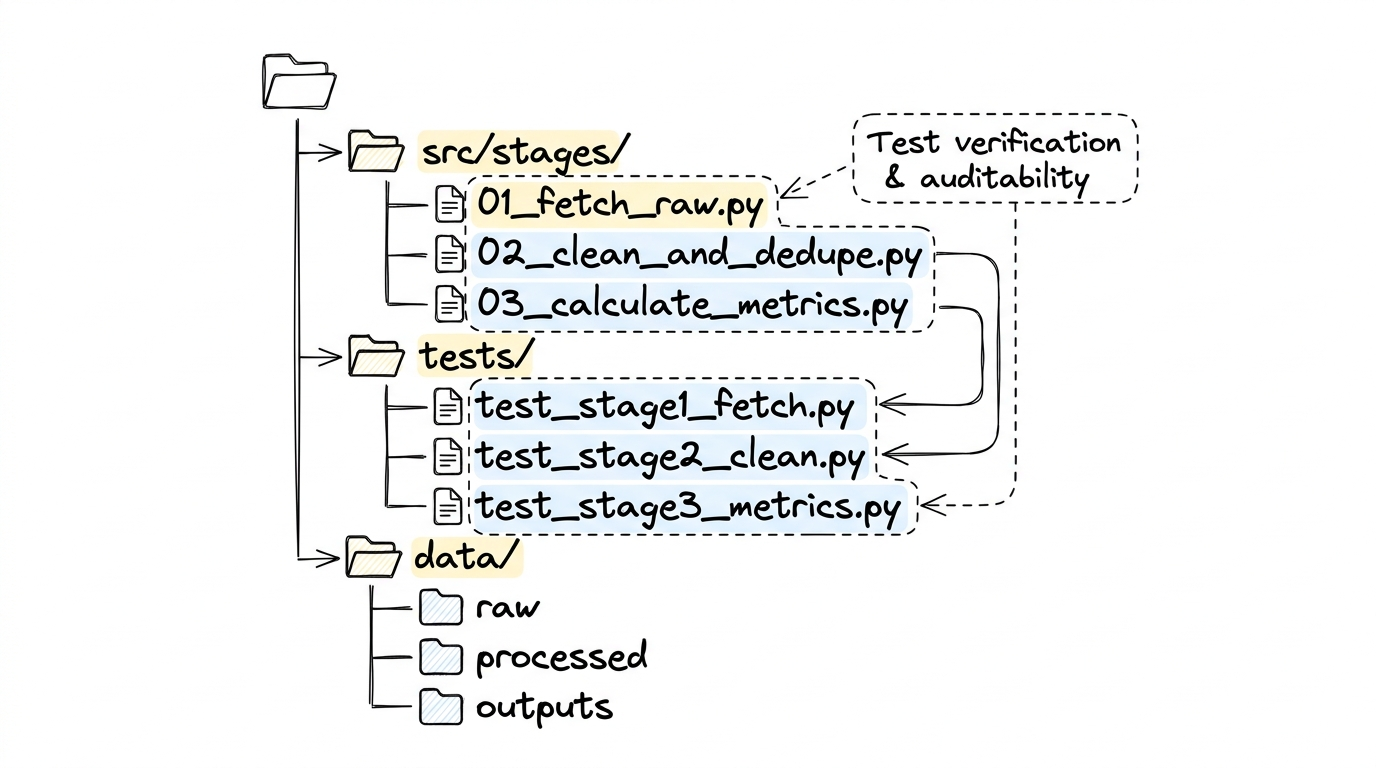
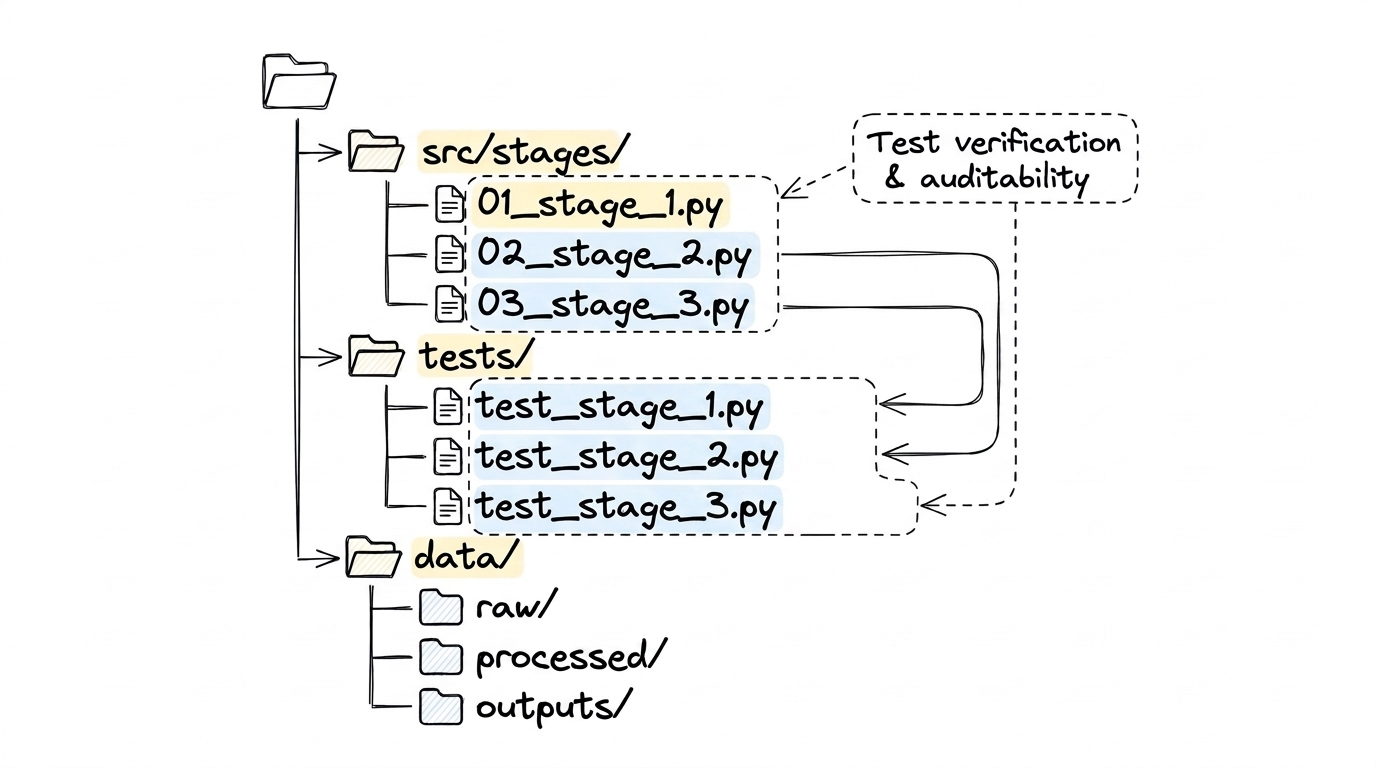
refactor(blog): update architecture diagram with generic stage names

diff --git a/src/data/portfolio.ts b/src/data/portfolio.ts
@@ -362,7 +362,7 @@ export const portfolioData: PortfolioConfig = {
           ],
           code: {
             language: "text",
-            code: "research-project/\n├── data/\n│   ├── raw/                  # Pristine API responses and raw dumps (read-only, never modified)\n│   ├── processed/            # Cleaned, schema-validated JSON records and checkpoints\n│   └── outputs/              # Final publication-ready matrices, CSVs, and plots\n├── src/\n│   └── stages/\n│       ├── 01_fetch_raw.py         # Single responsibility: harvest raw data to data/raw\n│       ├── 02_clean_and_dedupe.py  # Strip noise, resolve identifiers, normalize structure\n│       └── 03_calculate_metrics.py # Controlled semantic enrichment and metrics calculation\n└── tests/\n    ├── test_stage1_fetch.py        # Verifies network timeouts, response headers, and raw formats\n    ├── test_stage2_clean.py        # Verifies parsing invariants, string sanitizers, and schemas\n    └── test_stage3_metrics.py      # Verifies AI JSON schemas, counts, and statistical outputs",
+            code: "research-project/\n├── data/\n│   ├── raw/                  # Pristine API responses and raw dumps (read-only, never modified)\n│   ├── processed/            # Cleaned, schema-validated JSON records and checkpoints\n│   └── outputs/              # Final publication-ready matrices, CSVs, and plots\n├── src/\n│   └── stages/\n│       ├── 01_stage_1.py         # Single responsibility: Stage 1 data extraction & caching\n│       ├── 02_stage_2.py         # Stage 2: parsing, deduplication, schema normalization\n│       └── 03_stage_3.py         # Stage 3: AI enrichment with strict schema, metrics calculation\n└── tests/\n    ├── test_stage_1.py           # Verifies Stage 1 extraction integrity and schema invariants\n    ├── test_stage_2.py           # Verifies Stage 2 sanitization and deterministic transitions\n    └── test_stage_3.py           # Verifies Stage 3 JSON schema conformance and outputs",
             caption: "Directory layout enforcing single-responsibility stages and automated test coverage."
           }
         },
@@ -371,7 +371,7 @@ export const portfolioData: PortfolioConfig = {
             "This layout enforces three practical safeguards:"
           ],
           bullets: [
-            "Fault Isolation: If a source website updates its DOM structure, only 01_fetch_raw.py requires maintenance. Stages 2 and 3 remain untouched.",
+            "Fault Isolation: If Stage 1 extraction changes, only 01_stage_1.py and test_stage_1.py require updates. Stages 2 and 3 remain untouched.",
             "Local Caching & Polite Scraping: Because raw responses persist in data/raw/, you can test and iterate on transformation logic hundreds of times without sending a single redundant HTTP request to external servers.",
             "Auditability by Independent Peers: Any reviewer or collaborator can run pytest to inspect intermediate outputs and verify that every transformation behaves according to the published methodology."
           ]
